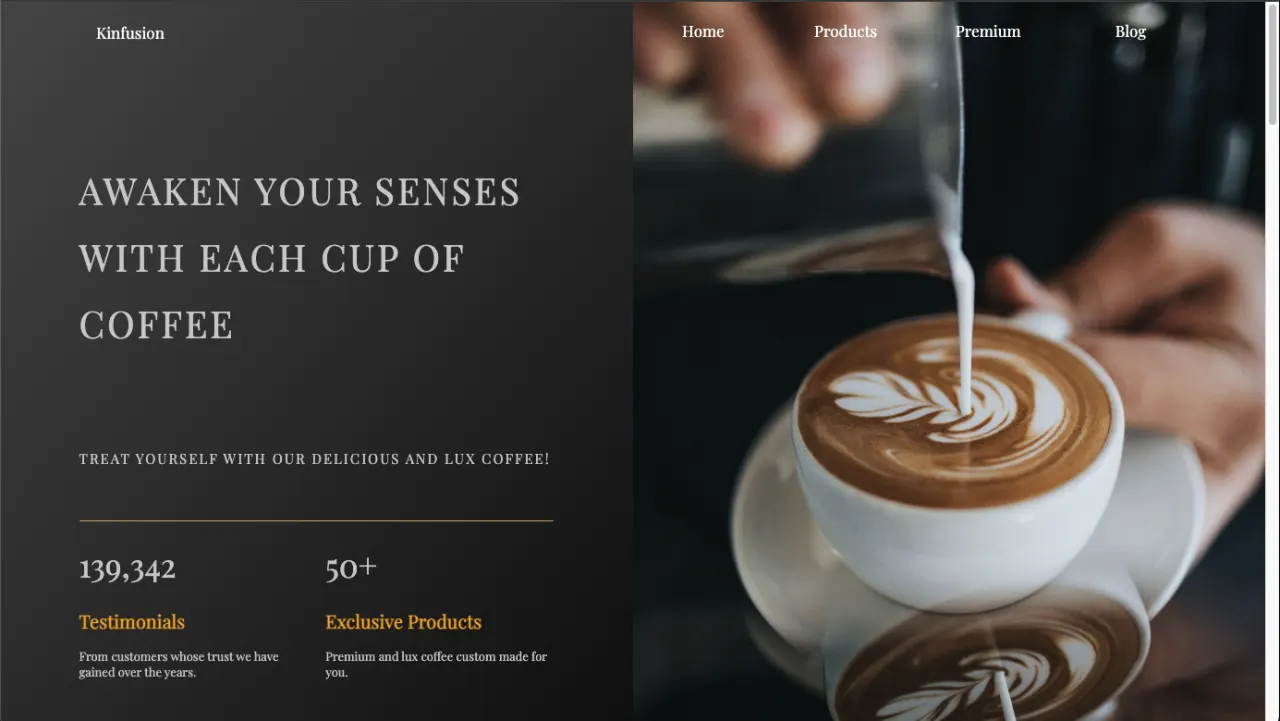
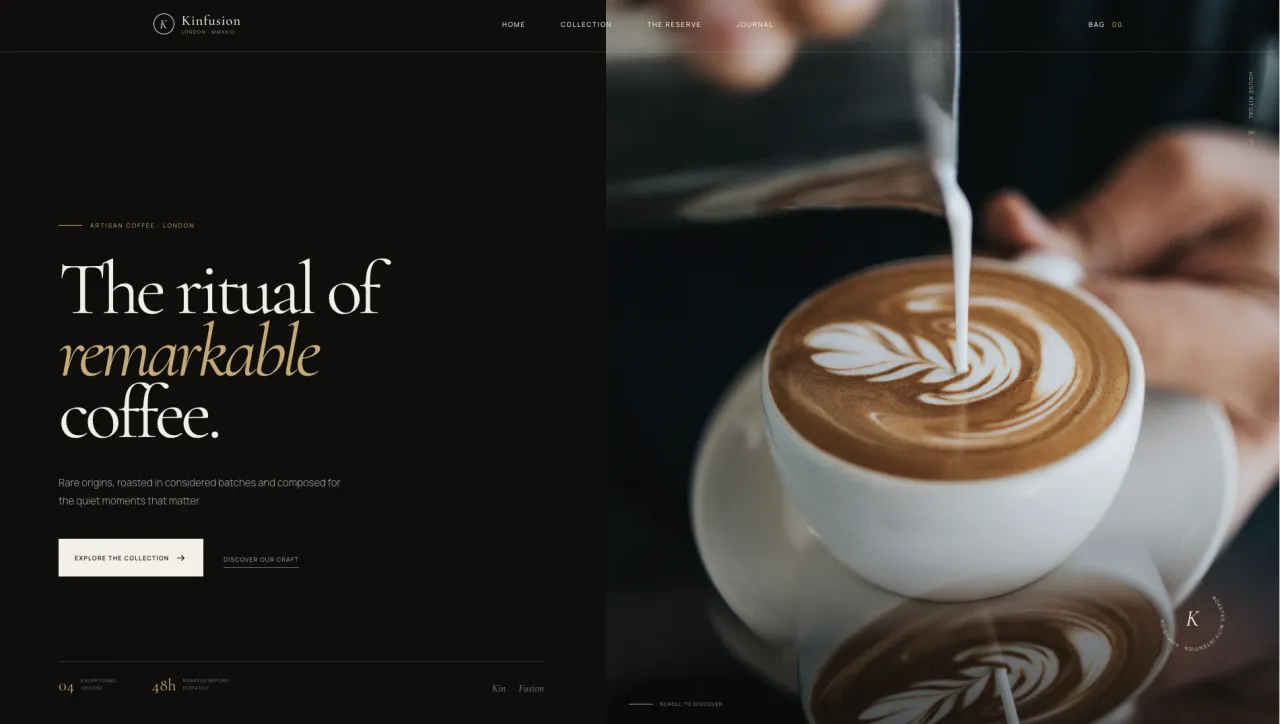
Update Kinfusion and Kinosmetics showcase media

diff --git a/src/HomePage.tsx b/src/HomePage.tsx
@@ -9,7 +9,9 @@ import flavorFusionPoster from "./assets/optimized/flavorfusion.webp";
 import hiPexPoster from "./assets/optimized/hipex.webp";
 import hiPexVideo from "./assets/optimized/hipex-showcase.mp4";
 import kinfusionPoster from "./assets/optimized/kinfusion.webp";
+import kinfusionVideo from "./assets/optimized/kinfusion-showcase.mp4";
 import kinosmeticsPoster from "./assets/optimized/kinosmetics.webp";
+import kinosmeticsVideo from "./assets/optimized/kinosmetics-showcase.mp4";
 import opusElitePoster from "./assets/optimized/opuselite-showcase-poster.webp";
 import opusEliteVideo from "./assets/optimized/opuselite-showcase.mp4";
 
@@ -32,18 +34,20 @@ const projects = [
   },
   {
     title: "Kinfusion",
-    category: "Editorial commerce · Frontend",
+    category: "Artisan coffee · Frontend",
     description:
-      "A modern storefront concept pairing strong product hierarchy with an editorial rhythm.",
+      "A composed coffee-house experience built around ritual, provenance, and an editorial sense of calm.",
     image: kinfusionPoster,
+    video: kinfusionVideo,
     href: "https://kinfusion.netlify.app",
   },
   {
     title: "Kinosmetics",
-    category: "Beauty commerce · Experience design",
+    category: "Luxury beauty · Experience design",
     description:
       "A soft, immersive shopping concept built around confident art direction and frictionless browsing.",
     image: kinosmeticsPoster,
+    video: kinosmeticsVideo,
     href: "https://kinosmetics.netlify.app",
   },
   {